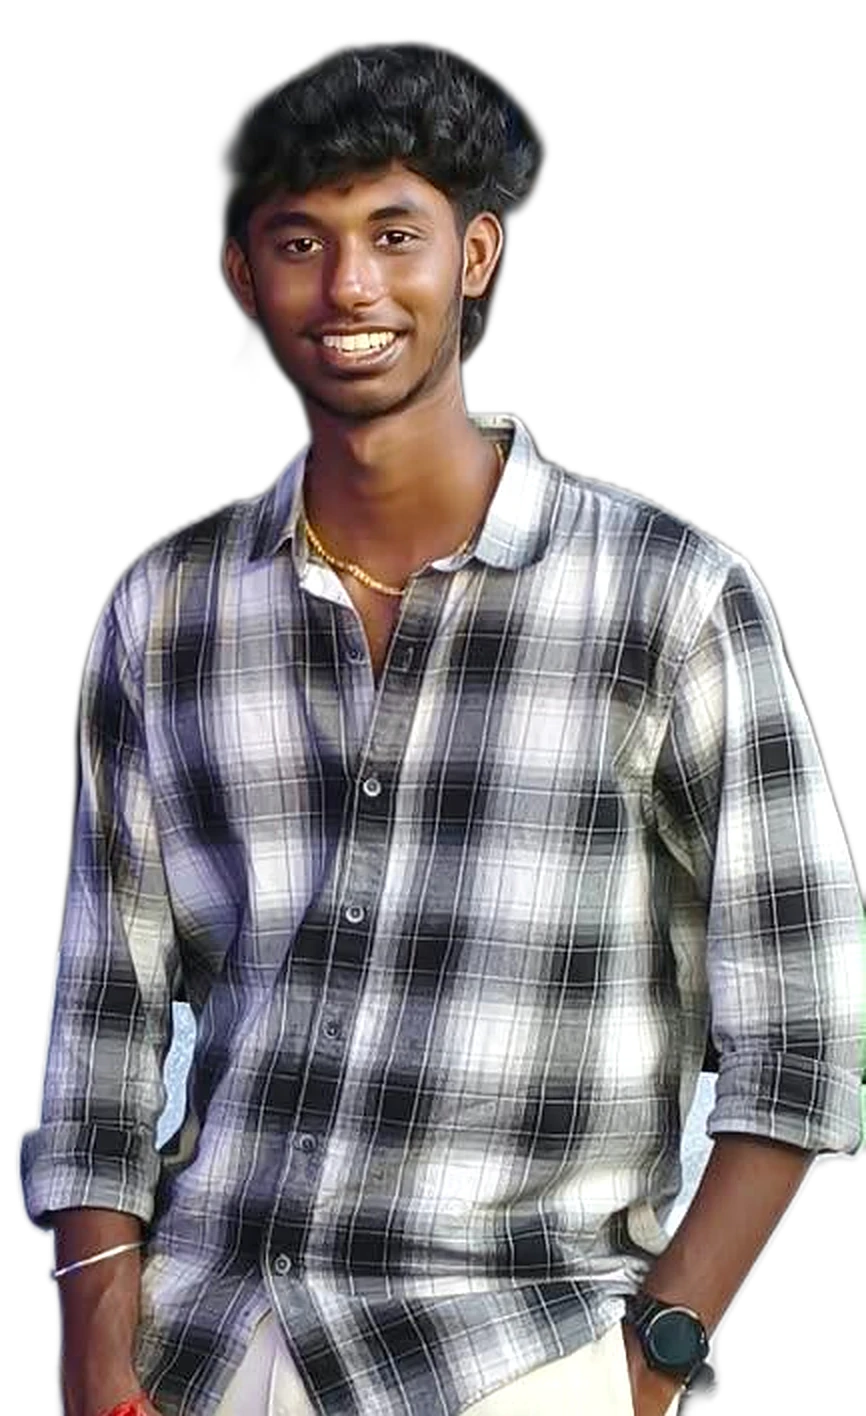
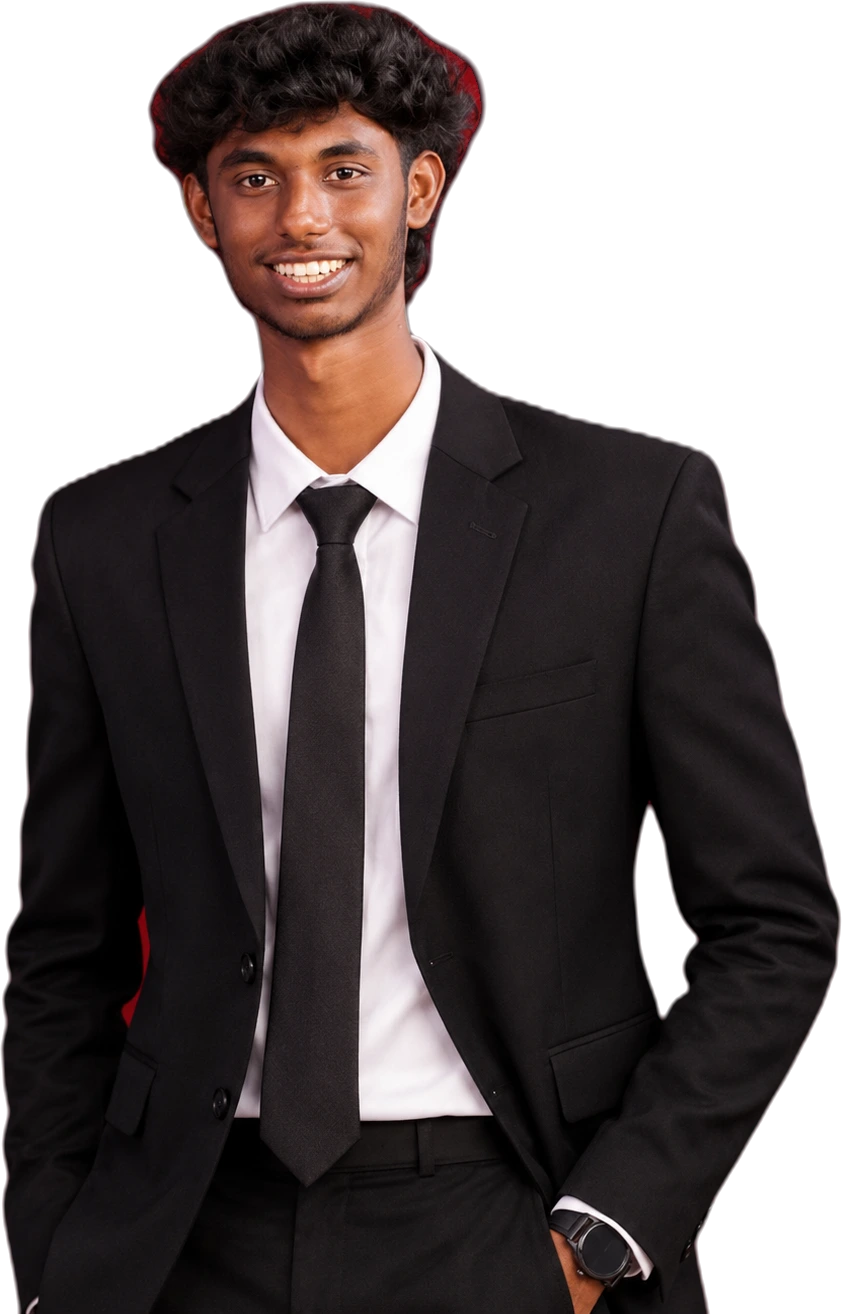
Use suit portrait for the moving figure
Claude-Session: https://claude.ai/code/session_01S2tVX1FCFrdzUUhTRSshF3

diff --git a/src/styles/landing.css b/src/styles/landing.css
@@ -35,7 +35,7 @@ html:not(.js) .preloader { display: none; }
 .pl-label { margin-top: 14px; display: flex; justify-content: space-between; }
 
 /* ===== the moving figure ===== */
-.figure { position: fixed; left: 0; top: 0; z-index: 30; width: calc(var(--fh) * .6116); height: var(--fh); pointer-events: none; will-change: transform; opacity: 0; transition: opacity 1.2s ease; }
+.figure { position: fixed; left: 0; top: 0; z-index: 30; width: calc(var(--fh) * .6408); height: var(--fh); pointer-events: none; will-change: transform; opacity: 0; transition: opacity 1.2s ease; }
 body.cinema-open .figure { opacity: 1; }
 .fig-rot { position: absolute; inset: 0; transform-style: preserve-3d; will-change: transform; }
 .fig-glow, .fig-ring, .fig-ring2 { position: absolute; border-radius: 50%; left: 50%; top: 44%; will-change: transform; }
@@ -45,7 +45,7 @@ body.cinema-open .figure { opacity: 1; }
 .fig-body { position: absolute; inset: 0; filter: drop-shadow(0 0 26px rgba(238,75,98,.28)) drop-shadow(0 24px 40px rgba(0,0,0,.6)); }
 .fig-img { position: absolute; inset: 0; width: 100%; height: 100%; object-fit: contain; object-position: bottom; user-select: none; -webkit-user-drag: none; }
 .fig-img.body { -webkit-mask-image: linear-gradient(to bottom, #000 80%, transparent 99%); mask-image: linear-gradient(to bottom, #000 80%, transparent 99%); transform-origin: 50% 100%; }
-.fig-img.head { -webkit-mask-image: linear-gradient(to bottom, #000 28%, transparent 40%); mask-image: linear-gradient(to bottom, #000 28%, transparent 40%); transform-origin: 56% 36%; }
+.fig-img.head { -webkit-mask-image: linear-gradient(to bottom, #000 21%, transparent 31%); mask-image: linear-gradient(to bottom, #000 21%, transparent 31%); transform-origin: 38% 27%; }
 .fig-hit { position: fixed; left: 0; top: 0; width: 120px; height: 150px; margin: -75px 0 0 -60px; z-index: 31; pointer-events: auto; cursor: pointer; border-radius: 50%; will-change: transform; }
 .fig-hit.off { pointer-events: none; }
 .bubble {
